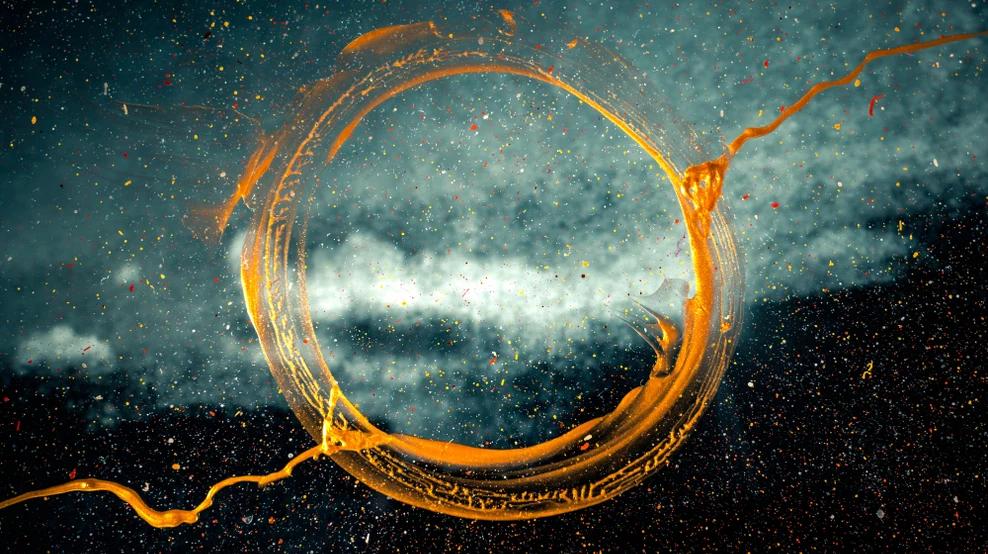
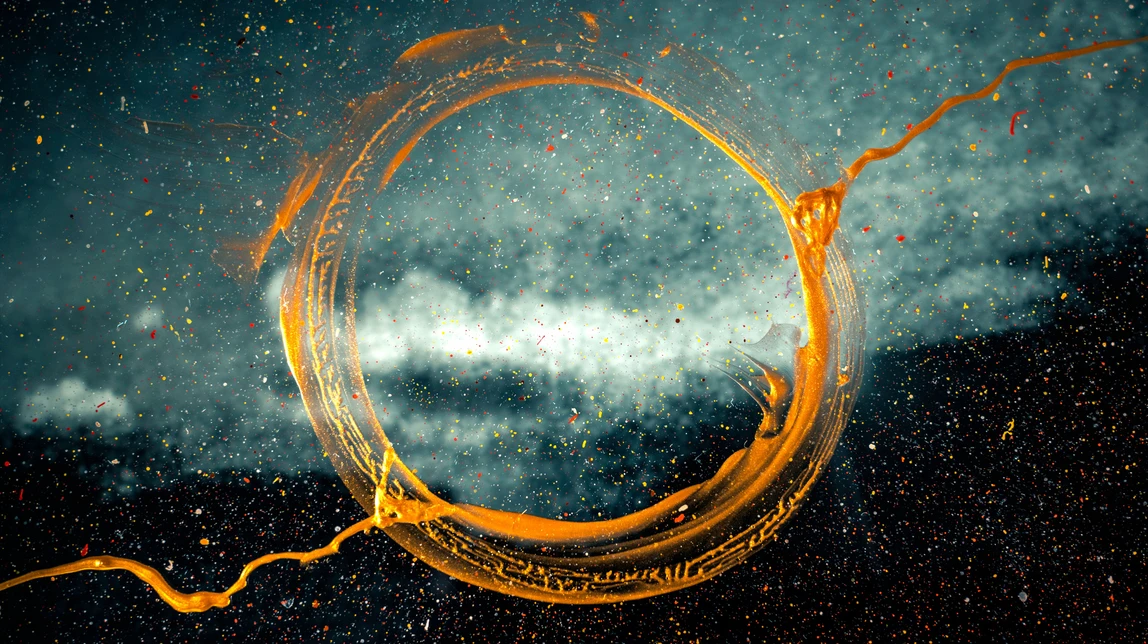
画像を書き出し直してみる

diff --git a/server/tool/applySharpToLocal.js b/server/tool/applySharpToLocal.js
@@ -16,8 +16,8 @@ function createResizeImage(imgPath, outputFilePath) {
   sharp(imgPath)
   .resize({
     fit: 'cover',
-    height: 554, // profile 252
-    width: 988, // profile 252
+    height: 644, // profile 252
+    width: 1148, // profile 252
   })
   .toFormat('webp', { quality: 90 })
   .toFile(outputFilePath, (err) => {
